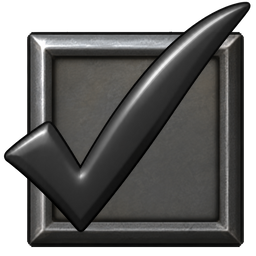
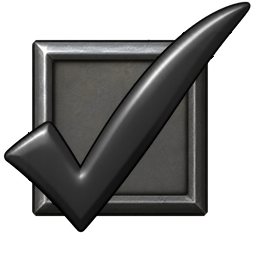
fix: draw the high-resolution checkbox box at the classic box bounds

diff --git a/docs/art/ui-checkbox/prepare_runtime.py b/docs/art/ui-checkbox/prepare_runtime.py
@@ -1,0 +1,116 @@
+"""Prepare the runtime checkbox sprites from the approved checkbox artwork.
+
+`approved/` holds the checked and unchecked sprites approved on 2026-09-22.
+They share one base, so the checkmark layer is recovered from the pair. Its
+coverage is exact wherever the base is not opaque. Where its antialiased rim
+covers the opaque base, the coverage is solved from the colour of the nearest
+solidly covered checkmark pixel. The base is fitted to the classic box bounds
+at 8x, and both checked states are composited over it again. The disabled
+state converts only the checkmark to Rec. 709 luma.
+"""
+
+from __future__ import annotations
+
+from pathlib import Path
+
+import numpy as np
+from PIL import Image
+from scipy import ndimage
+
+HERE = Path(__file__).resolve().parent
+ROOT = HERE.parents[2]
+OUT = ROOT / "crates/clonk-app/assets/ui-icons"
+CLASSIC = ROOT / "planet/Graphics.c4g/GUICheckbox.png"
+SCALE = 8
+SIZE = 32 * SCALE
+# Resampled margin around the box, for its antialiased edge.
+MARGIN = 6
+
+
+def load(path: Path) -> np.ndarray:
+    return np.asarray(Image.open(path).convert("RGBA")).astype(float) / 255
+
+
+def box_bounds(rgba: np.ndarray) -> tuple[int, int, int, int]:
+    """Bounds of the opaque, non-black pixels: the box without the classic
+    box's pure black drop shadow. `hd_ui_icons.rs` applies the same rule."""
+    inside = (rgba[..., 3] >= 128 / 255) & (rgba[..., :3].max(axis=2) >= 8 / 255)
+    ys, xs = np.nonzero(inside)
+    return int(xs.min()), int(ys.min()), int(xs.max()) + 1, int(ys.max()) + 1
+
+
+def premultiply(rgba: np.ndarray) -> np.ndarray:
+    return rgba[..., :3] * rgba[..., 3:4]
+
+
+def recover_checkmark(checked: np.ndarray, unchecked: np.ndarray) -> tuple[np.ndarray, np.ndarray]:
+    """Premultiplied colour and coverage of the checkmark composited over the
+    unchecked base in the approved checked sprite."""
+    covered = np.any(checked != unchecked, axis=2)
+    solid = ndimage.binary_erosion(covered, iterations=2)
+    _, nearest = ndimage.distance_transform_edt(~solid, return_indices=True)
+    rim = checked[..., :3][nearest[0], nearest[1]]
+    out, base = premultiply(checked), premultiply(unchecked)
+    # out = coverage * rim + base * (1 - coverage), in the least-squares sense.
+    delta = rim - base
+    spread = (delta**2).sum(axis=2)
+    estimate = ((out - base) * delta).sum(axis=2) / np.maximum(spread, 1e-9)
+    estimate = np.where(spread > (40 / 255) ** 2, estimate, 1)
+    # Coverage below these bounds would need a colour outside [0, 1].
+    brighter = np.where(out > base, (out - base) / np.maximum(1 - base, 1e-9), 0).max(axis=2)
+    darker = np.where(base > 0, 1 - out / np.maximum(base, 1e-9), 0).max(axis=2)
+    from_colour = np.where(solid, 1, np.clip(np.maximum(estimate, np.maximum(brighter, darker)), 0, 1))
+    base_alpha = unchecked[..., 3]
+    from_alpha = np.clip((checked[..., 3] - base_alpha) / np.maximum(1 - base_alpha, 1e-9), 0, 1)
+    coverage = np.where(covered, np.where(base_alpha <= 0.9, from_alpha, from_colour), 0)
+    colour = np.clip(out - base * (1 - coverage[..., None]), 0, coverage[..., None])
+    return colour, coverage
+
+
+def fit_base(unchecked: Path, source: tuple[int, ...], target: tuple[int, ...]) -> np.ndarray:
+    """Resample the approved base so its box spans the target bounds."""
+    left, top, right, bottom = source
+    x0, y0, x1, y1 = target
+    scale_x, scale_y = (x1 - x0) / (right - left), (y1 - y0) / (bottom - top)
+    region = (
+        left - MARGIN / scale_x,
+        top - MARGIN / scale_y,
+        right + MARGIN / scale_x,
+        bottom + MARGIN / scale_y,
+    )
+    size = (x1 - x0 + 2 * MARGIN, y1 - y0 + 2 * MARGIN)
+    fitted = Image.open(unchecked).convert("RGBa").resize(size, Image.Resampling.LANCZOS, box=region)
+    base = Image.new("RGBa", (SIZE, SIZE))
+    base.paste(fitted, (x0 - MARGIN, y0 - MARGIN))
+    return np.asarray(base.convert("RGBA")).astype(float) / 255
+
+
+def over(colour: np.ndarray, coverage: np.ndarray, base: np.ndarray) -> np.ndarray:
+    alpha = coverage + base[..., 3] * (1 - coverage)
+    out = colour + premultiply(base) * (1 - coverage[..., None])
+    straight = out / np.maximum(alpha[..., None], 1e-9)
+    return np.concatenate([straight, alpha[..., None]], axis=2)
+
+
+def save(rgba: np.ndarray, name: str) -> None:
+    pixels = np.clip(np.round(rgba * 255), 0, 255).astype(np.uint8)
+    pixels[pixels[..., 3] == 0] = 0
+    Image.fromarray(pixels).save(OUT / name, optimize=True)
+
+
+def main() -> None:
+    checked = load(HERE / "approved/checkbox-on.png")
+    unchecked = load(HERE / "approved/checkbox-off.png")
+    colour, coverage = recover_checkmark(checked, unchecked)
+    classic = box_bounds(load(CLASSIC)[:, :32])
+    target = tuple(bound * SCALE for bound in classic)
+    base = fit_base(HERE / "approved/checkbox-off.png", box_bounds(unchecked), target)
+    gray = 0.2126 * colour[..., 0] + 0.7152 * colour[..., 1] + 0.0722 * colour[..., 2]
+    save(base, "checkbox-off.png")
+    save(over(colour, coverage, base), "checkbox-on.png")
+    save(over(np.repeat(gray[..., None], 3, axis=2), coverage, base), "checkbox-disabled.png")
+    print(f"classic box {classic}; approved box {box_bounds(unchecked)} fitted to {target}")
+
+
+if __name__ == "__main__":
+    main()

diff --git a/crates/clonk-app/src/hd_ui_icons.rs b/crates/clonk-app/src/hd_ui_icons.rs
@@ -188,6 +188,56 @@ mod tests {
             .is_none());
     }
 
+    /// Bounds of a cell's opaque, non-black pixels, relative to the cell:
+    /// the box itself, without the pure black drop shadow the classic box
+    /// casts.
+    fn box_bounds(image: &ImageData, [left, top, width, height]: [u32; 4]) -> [u32; 4] {
+        (top..top + height)
+            .flat_map(|y| (left..left + width).map(move |x| (x, y)))
+            .filter(|&(x, y)| {
+                let offset = ((y * image.width() + x) * 4) as usize;
+                let pixel = &image.pixels()[offset..offset + 4];
+                pixel[3] >= 128 && pixel[..3].iter().any(|&channel| channel >= 8)
+            })
+            .fold([u32::MAX, u32::MAX, 0, 0], |[l, t, r, b], (x, y)| {
+                [
+                    l.min(x - left),
+                    t.min(y - top),
+                    r.max(x - left + 1),
+                    b.max(y - top + 1),
+                ]
+            })
+    }
+
+    #[test]
+    fn checkbox_art_keeps_the_classic_box_bounds_at_its_resolution() {
+        // The classic checkmark overhangs its box on every side. The
+        // replacement checkmark spans the classic one's extent, so it sits
+        // on the box the same way only if the box keeps the classic bounds.
+        let icons = prepared_sheets().unwrap();
+        let sheet = icons
+            .iter()
+            .find(|sheet| sheet.name == "GUICheckbox.png")
+            .unwrap();
+        let classic = box_bounds(&sheet.original, [0, 0, 32, 32]);
+        let replacement = sheet
+            .replacement
+            .region_replacement([0, 0, 32, 32])
+            .unwrap();
+        let scale = replacement.width() / 32;
+        let bounds = box_bounds(
+            replacement,
+            [0, 0, replacement.width(), replacement.height()],
+        );
+        assert!(
+            classic
+                .iter()
+                .zip(bounds)
+                .all(|(&classic, bound)| (classic * scale).abs_diff(bound) <= scale / 2),
+            "the replacement box {bounds:?} must keep the classic box {classic:?} at {scale}x"
+        );
+    }
+
     #[test]
     fn checkbox_states_share_identical_uncovered_base_pixels() {
         let icons = prepared_sheets().unwrap();
